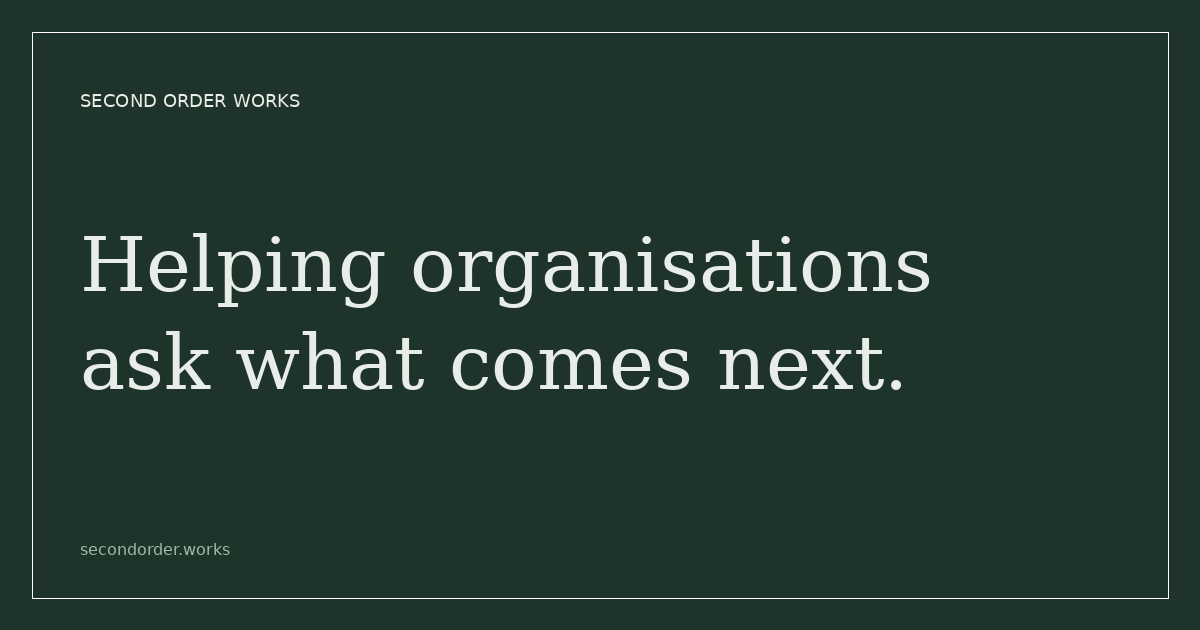
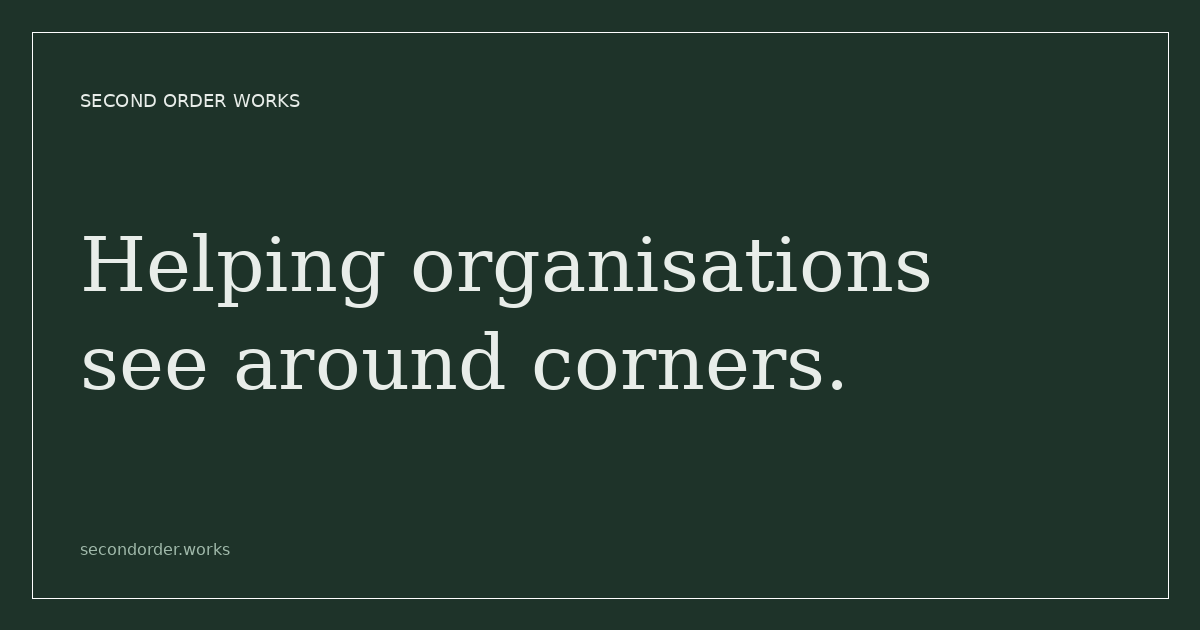
Updated header text.

Changed region(s): [[0.0617, 0.5127, 0.7708, 0.6333]]

diff --git a/index.html b/index.html
@@ -303,7 +303,7 @@
   <header class="hero">
     <div class="hero-inner">
       <span class="wordmark">Second Order Works</span>
-      <h1>Helping organisations<br>ask what comes<br>next.</h1>
+      <h1>Helping organisations<br>see around<br>corners.</h1>
       <p>
         I provide fractional operational leadership and strategic support to founders
         and leadership teams - helping them navigate growth, change, and the challenges
